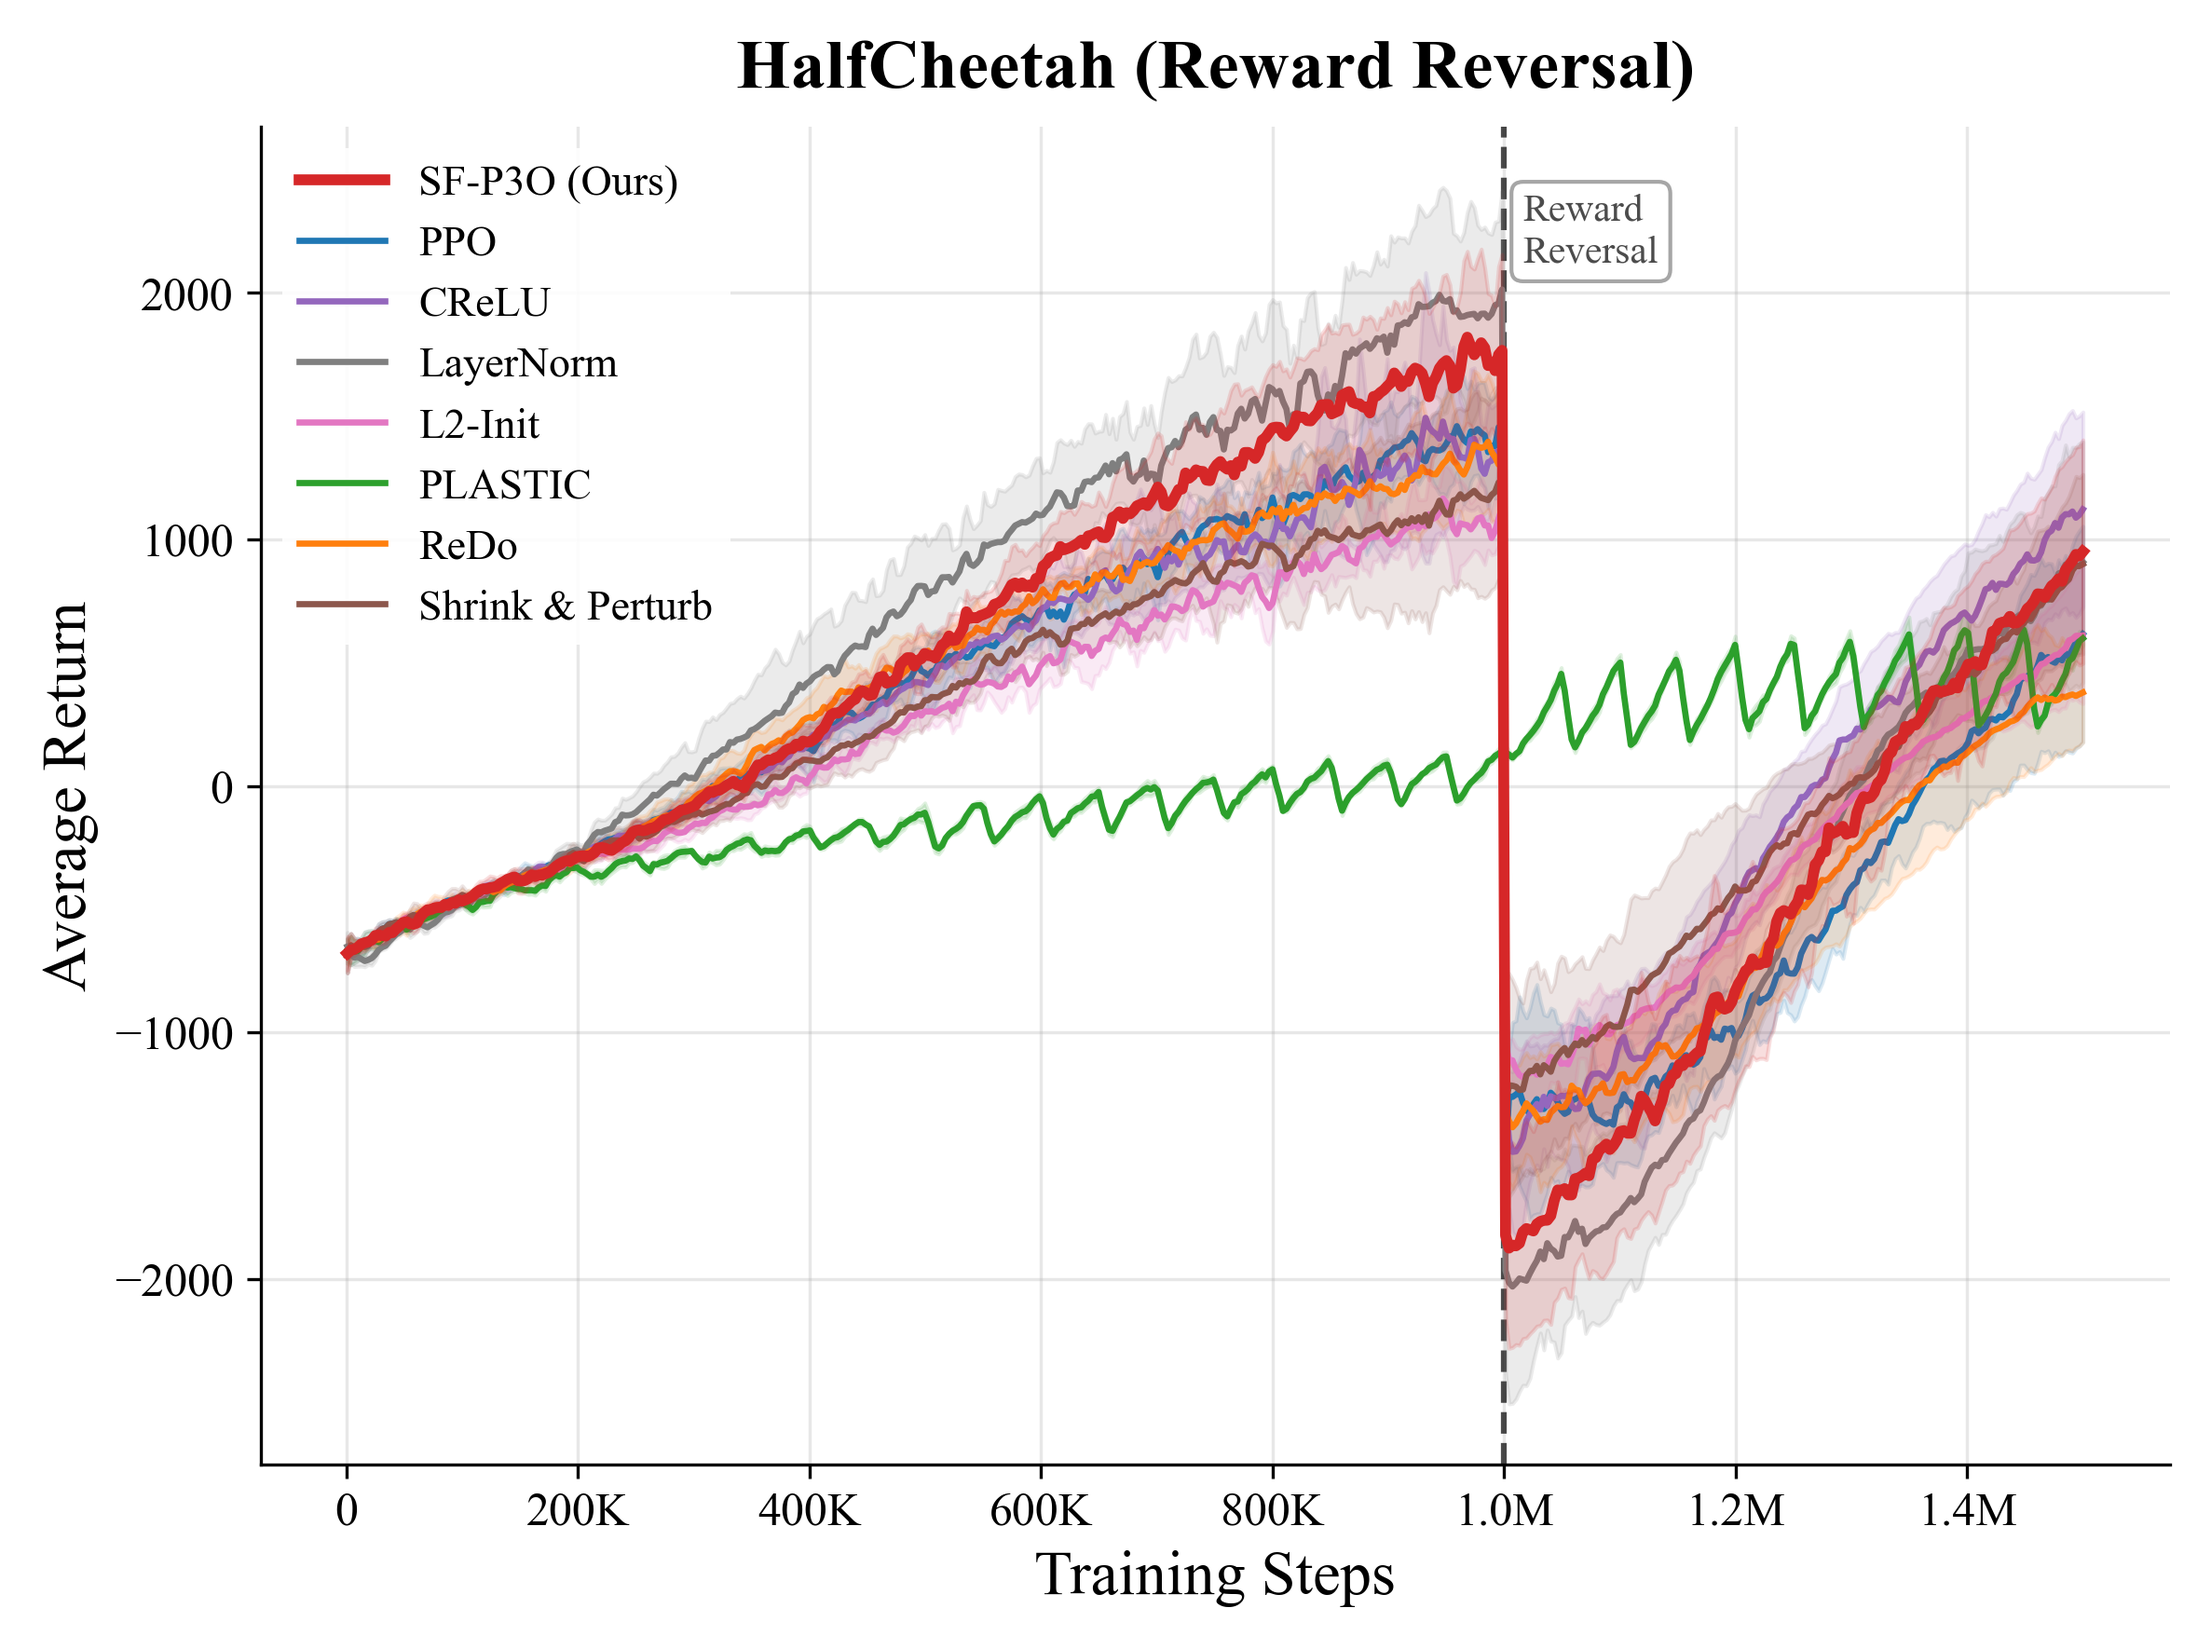
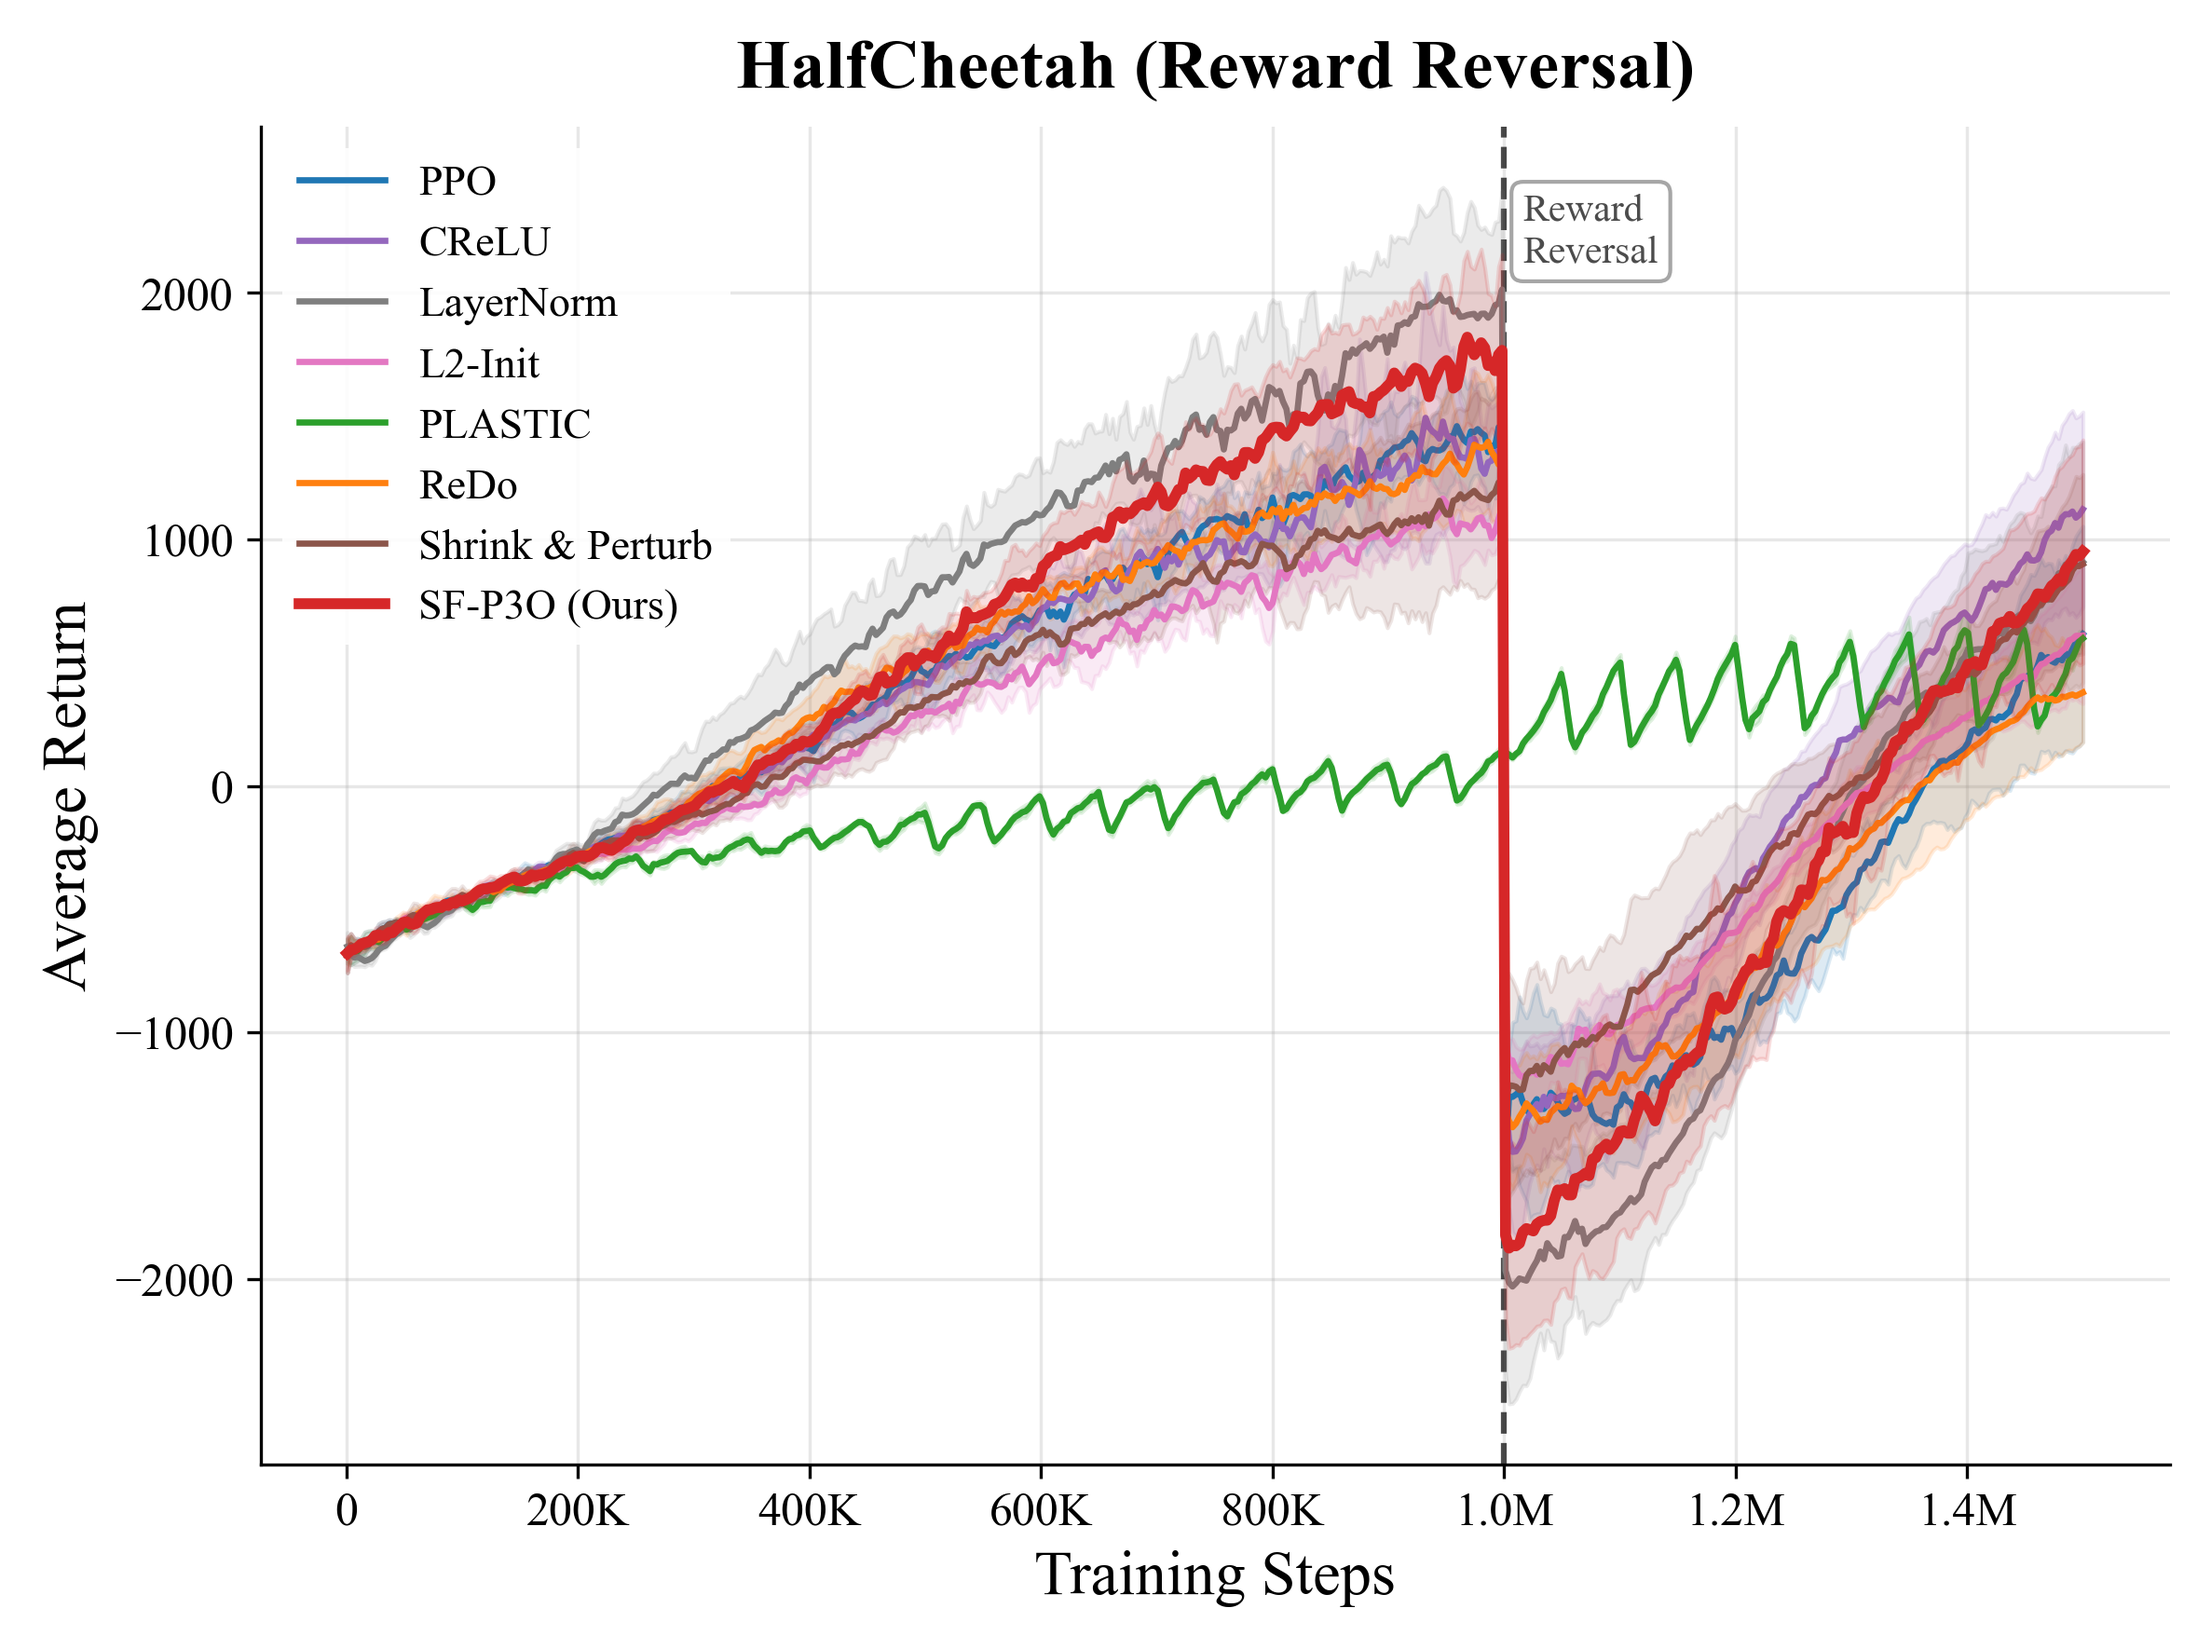
Fix reward reversal figures: filter incomplete seeds

Changed region(s): [[0.1247, 0.0932, 0.3118, 0.3729]]

diff --git a/redraw_figures.py b/redraw_figures.py
@@ -120,8 +120,9 @@ def find_runs(base_dirs, env, algo, steps_filter=None, probe=False):
         results.extend(glob.glob(pat))
     return sorted(results)
 
-def load_seeds(base_dirs, env, algo, steps_filter=None, probe=False):
-    """Load running-mean reward for all seeds. Returns list of (steps, vals)."""
+def load_seeds(base_dirs, env, algo, steps_filter=None, probe=False, min_steps=None):
+    """Load running-mean reward for all seeds. Returns list of (steps, vals).
+    If min_steps is set, skip seeds whose last step < min_steps."""
     runs = find_runs(base_dirs, env, algo, steps_filter, probe)
     data = []
     for run in runs:
@@ -129,6 +130,9 @@ def load_seeds(base_dirs, env, algo, steps_filter=None, probe=False):
         if os.path.exists(csv):
             s, v = parse_reward(csv)
             if len(s) > 1:
+                if min_steps and s[-1] < min_steps:
+                    print(f'    [SKIP] {os.path.basename(run)}: only {s[-1]} steps')
+                    continue
                 data.append((s, v))
     return data
 
@@ -202,12 +206,14 @@ def fmt_steps(x, _):
 def plot_env(algos, colors, env, base_dirs, steps_filter,
              title_suffix='', xlabel='Training Steps',
              ylabel='Average Return', figsize=(8, 6),
-             n_pts=500, probe=False, reversal_step=None):
+             n_pts=500, probe=False, reversal_step=None, min_steps=None):
     """Create one figure for one environment."""
     fig, ax = plt.subplots(figsize=figsize)
 
-    for algo in algos:
-        sd = load_seeds(base_dirs, env, algo, steps_filter, probe)
+    # Draw other algos first, SF-P3O last so it's on top
+    ordered = [a for a in algos if a != 'SF-P3O'] + [a for a in algos if a == 'SF-P3O']
+    for algo in ordered:
+        sd = load_seeds(base_dirs, env, algo, steps_filter, probe, min_steps)
         if not sd:
             print(f'    [SKIP] {algo} on {env}: no data')
             continue
@@ -216,7 +222,7 @@ def plot_env(algos, colors, env, base_dirs, steps_filter,
             print(f'    [SKIP] {algo} on {env}: aggregate failed')
             continue
         lw = 2.8 if algo == 'SF-P3O' else 1.6
-        zo = 10 if algo == 'SF-P3O' else 5
+        zo = 20 if algo == 'SF-P3O' else 5
         label = ALGO_DISPLAY.get(algo, algo)
         ax.plot(x, m, label=label, color=colors.get(algo, '#333'),
                 linewidth=lw, zorder=zo)
@@ -272,7 +278,7 @@ for env in ['HalfCheetah-v4', 'Hopper-v4', 'Walker2d-v4']:
                 rev_step = json.load(f).get('hp', {}).get('reversal_step')
     fig = plot_env(MAIN_ALGOS, COLORS, env, [PROBE], None,
                    title_suffix=' (Reward Reversal)', probe=True,
-                   reversal_step=rev_step)
+                   reversal_step=rev_step, min_steps=1400000)
     name = ENV_DISPLAY[env]
     path = os.path.join(OUT, f'fig2_reversal_{name}.png')
     fig.savefig(path)
